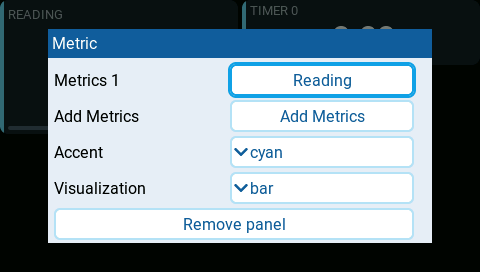
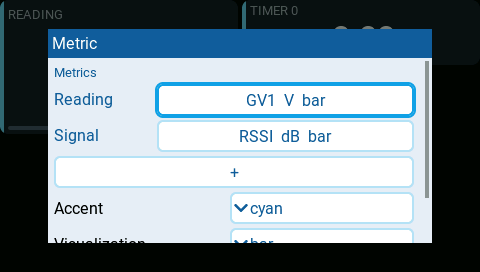
Use named summary rows for metric and text entries

Changed region(s): [[0.0938, 0.2059, 0.9062, 0.9118], [0.0938, 0.2353, 0.25, 0.3235]]

diff --git a/tools/capture-editor.py b/tools/capture-editor.py
@@ -11,7 +11,7 @@ import zlib
 
 ROOT = Path(__file__).resolve().parents[1]
 OUTPUT = ROOT / "build/editor-capture"
-SCENES = ("overview", "settings", "metric-entry", "exit", "save-as")
+SCENES = ("overview", "settings", "text-settings", "metric-entry", "exit", "save-as")
 SETUP_SCENES = {
     "screen-menu": [(500, 20, 20, 1), (520, 20, 20, 0)],
     "screens": [(500, 20, 20, 1), (520, 20, 20, 0),
@@ -63,6 +63,32 @@ panels:
       timer: 0
 """
 
+TEXT_LAYOUT = """version: 1
+grid:
+  columns: 4
+  rows: 4
+panels:
+  - id: labels
+    type: text
+    col: 0
+    row: 0
+    colSpan: 2
+    rowSpan: 2
+    config:
+      texts:
+        - label: MODE
+          source: sa
+          positions:
+            up: UP
+            middle: MID
+            down: DOWN
+        - label: GEAR
+          source: sb
+          positions:
+            up: UP
+            down: DOWN
+"""
+
 
 def prepare(sd, scene):
     shutil.copytree(ROOT / "tests/fixtures/sdcard", sd)
@@ -79,7 +105,14 @@ def prepare(sd, scene):
         (sd / "AEROGRID/registry.txt").write_text("Empty\nDefault\nHost\n")
         (sd / "capture-ready.txt").write_text("native setup capture")
         return
-    (sd / "WIDGETS/AeroGrid/layouts/Default.yaml").write_text(LAYOUT)
+    layout = TEXT_LAYOUT if scene == "text-settings" else LAYOUT
+    if scene == "settings":
+        layout = layout.replace("          label: Reading", """          label: Reading
+          unit: V
+        - source: RSSI
+          label: Signal
+          unit: dB""")
+    (sd / "WIDGETS/AeroGrid/layouts/Default.yaml").write_text(layout)
     main = sd / "WIDGETS/AeroGrid/main.lua"
     source = main.read_text()
     needle = "    refresh = refresh,"
@@ -104,7 +137,7 @@ def prepare(sd, scene):
         if not context.captureSceneOpened then
             state.session.selected = 1
             local scene = "SCENE"
-            if scene == "settings" then
+            if scene == "settings" or scene == "text-settings" then
                 context.editorDrawerModule.open(context, state, "configure")
             elseif scene == "metric-entry" then
                 context.editorDrawerModule.open(context, state, "configure", "metrics", 1)

diff --git a/docs/user-guide/dashboards.md b/docs/user-guide/dashboards.md
@@ -91,10 +91,13 @@ Moving and resizing require touch.
 Use the native choices, toggles, number controls, and text keyboard in the
 settings dialog. Sources, switches, and timers use EdgeTX pickers.
 
-![Metric panel settings with entry, accent, visualization, and removal controls](../assets/editor/settings.png)
+![Metric panel settings with named summary rows and an add-entry button](../assets/editor/settings.png)
 
-For a metric panel, open **Metrics**, choose an entry, then **Source**.
-Metric entries and text lines have their own add, edit, and remove dialogs.
+Metrics and text lines appear as named rows with a summary of their settings.
+Tap a row to edit it, or tap the full-width **+** row to add an entry.
+In a metric entry, choose **Source** to change the reading.
+
+![Text panel settings with switch-position summaries and an add-entry button](../assets/editor/text-settings.png)
 
 ![Metric-entry dialog with GV1 selected as Source](../assets/editor/metric-entry.png)
 

diff --git a/docs/developer-guide/build.md b/docs/developer-guide/build.md
@@ -124,8 +124,8 @@ python3 tools/capture-editor.py
 ```
 
 This uses only Python's standard library. It captures screen creation, App mode,
-widget and layout selection, the editor overview, metric settings and entry
-dialogs, the exit menu, and Save As dialog in
+widget and layout selection, the editor overview, metric and text settings,
+the metric entry dialog, the exit menu, and Save As dialog in
 `build/editor-capture/`. Use `--companion /path/to/Companion.app` to select a
 different installation. Use `--scene select-layout` (or another scene name)
 to regenerate a single capture.
